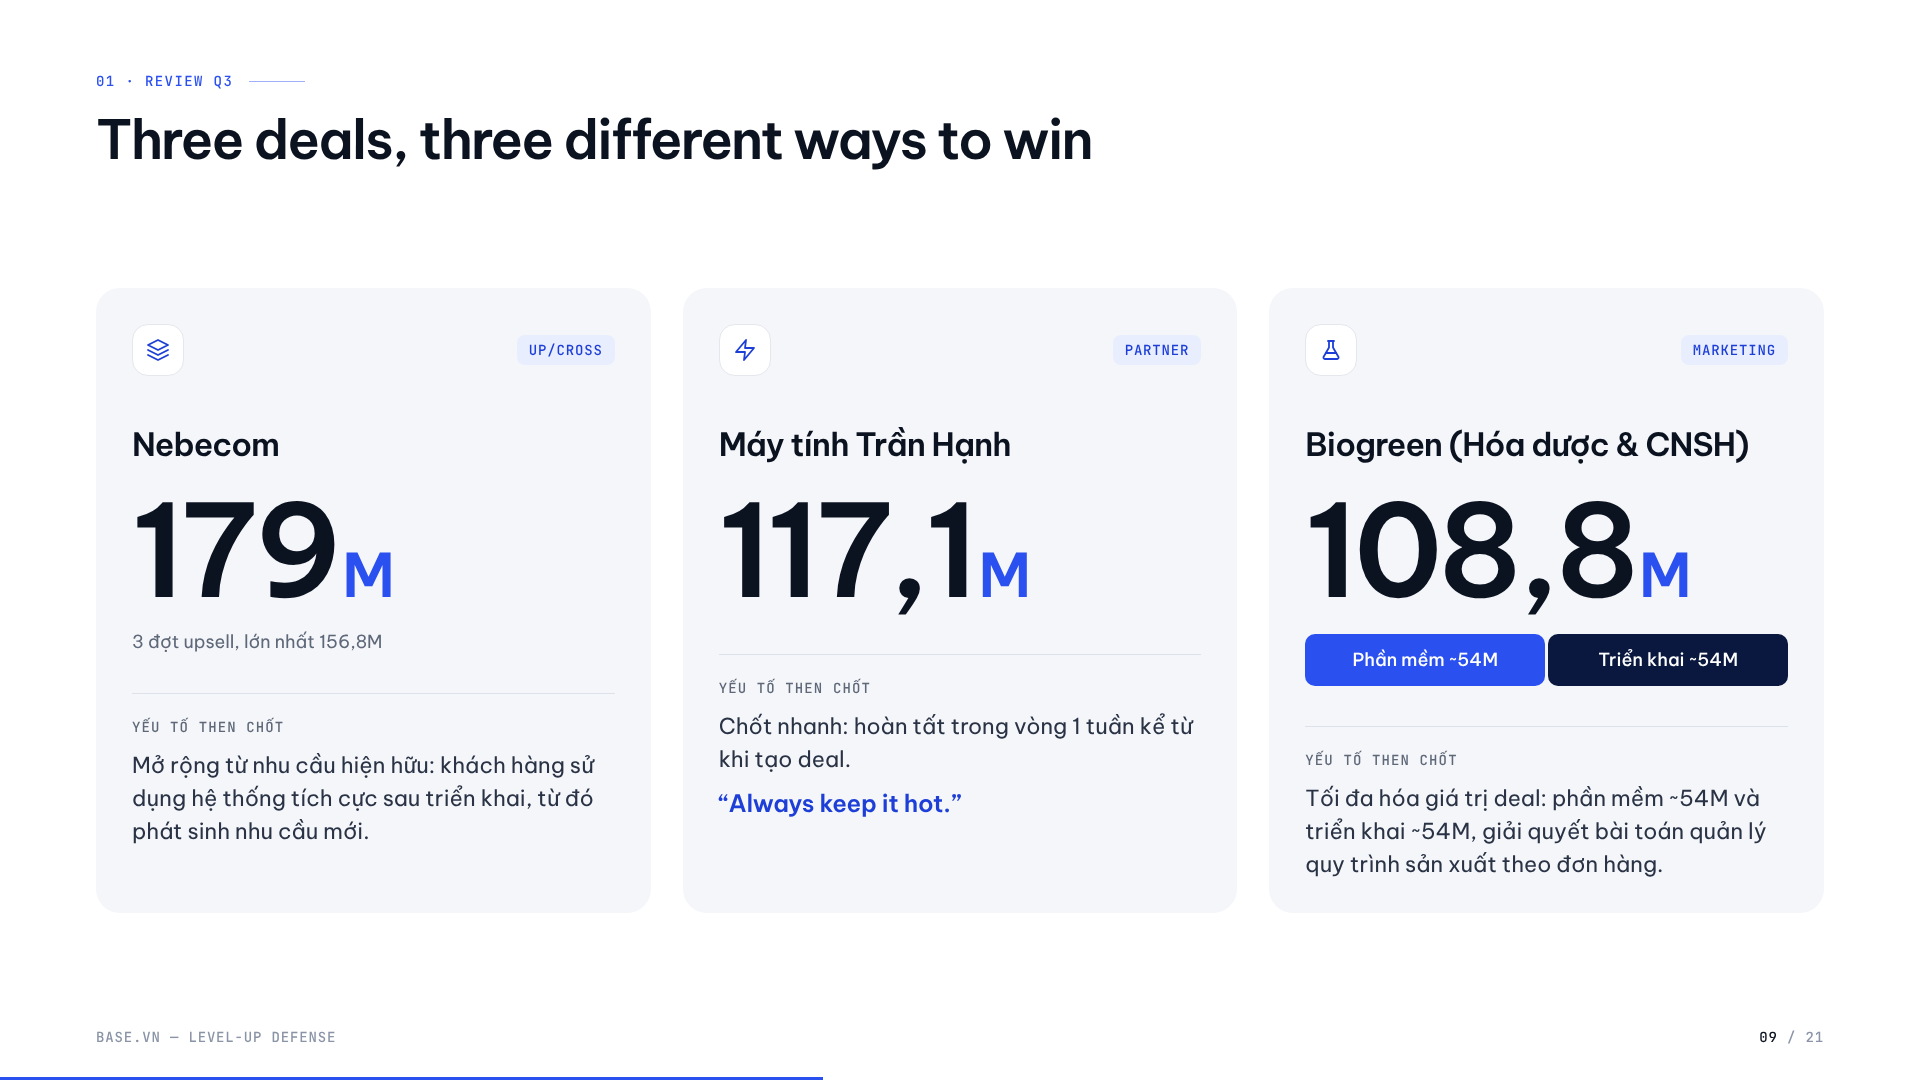
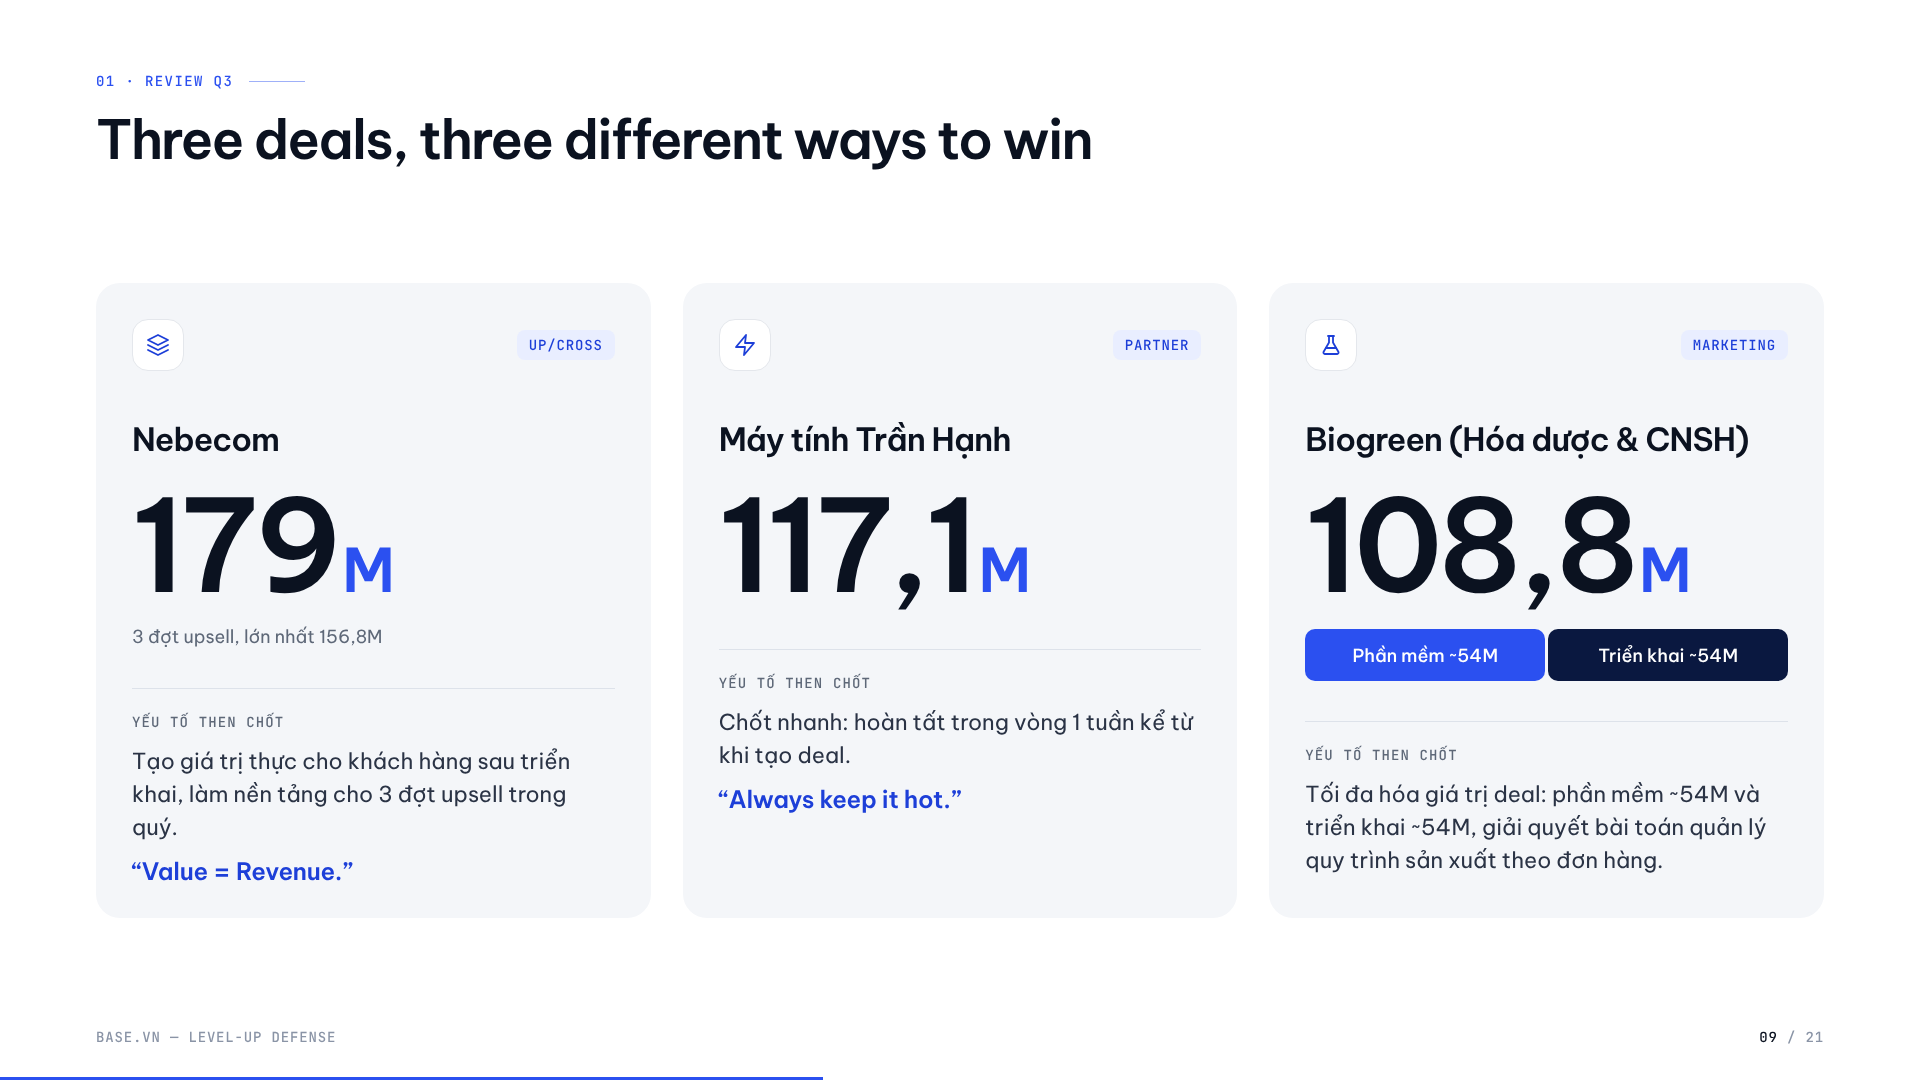
S9: Nebecom key factor reframed around value delivered, quote 'Value = Revenue.'
Claude-Session: https://claude.ai/code/session_011UzGuke8wFavZqFbM5stdo

diff --git a/Q3-26 review and level up defense.html b/Q3-26 review and level up defense.html
@@ -72,7 +72,7 @@ const DATA = {
     s8:  { newDeals: 'Biogreen, CP TM Ba Vì (Marketing) · Máy tính Trần Hạnh (Partner)' },
     s9:  { deals: [
       { name: 'Nebecom', value: 179, dec: 0, source: 'Up/cross', icon: 'layers', sub: '3 đợt upsell, lớn nhất 156,8M',
-        why: 'Mở rộng từ nhu cầu hiện hữu: khách hàng sử dụng hệ thống tích cực sau triển khai, từ đó phát sinh nhu cầu mới.' },
+        why: 'Tạo giá trị thực cho khách hàng sau triển khai, làm nền tảng cho 3 đợt upsell trong quý.', quote: 'Value = Revenue.' },
       { name: 'Máy tính Trần Hạnh', value: 117.1, dec: 1, source: 'Partner', icon: 'zap', sub: '',
         why: 'Chốt nhanh: hoàn tất trong vòng 1 tuần kể từ khi tạo deal.', quote: 'Always keep it hot.' },
       { name: 'Biogreen (Hóa dược & CNSH)', value: 108.8, dec: 1, source: 'Marketing', icon: 'flask', sub: '',
